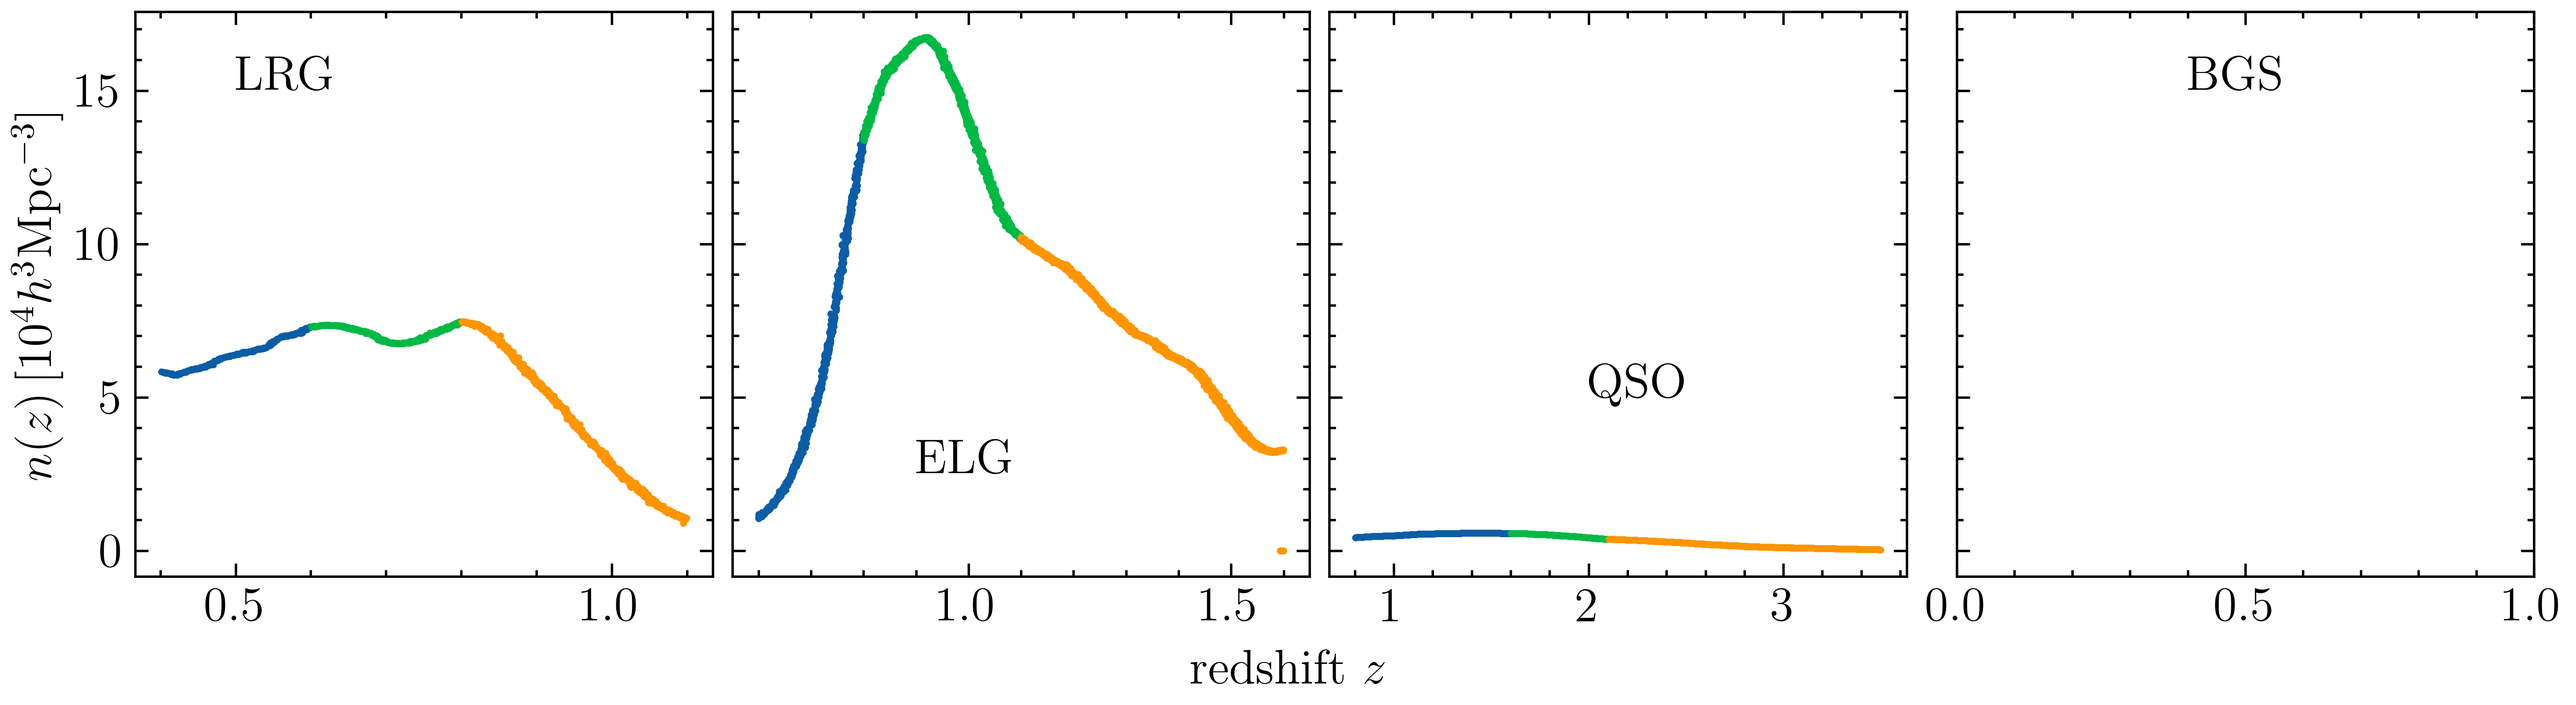
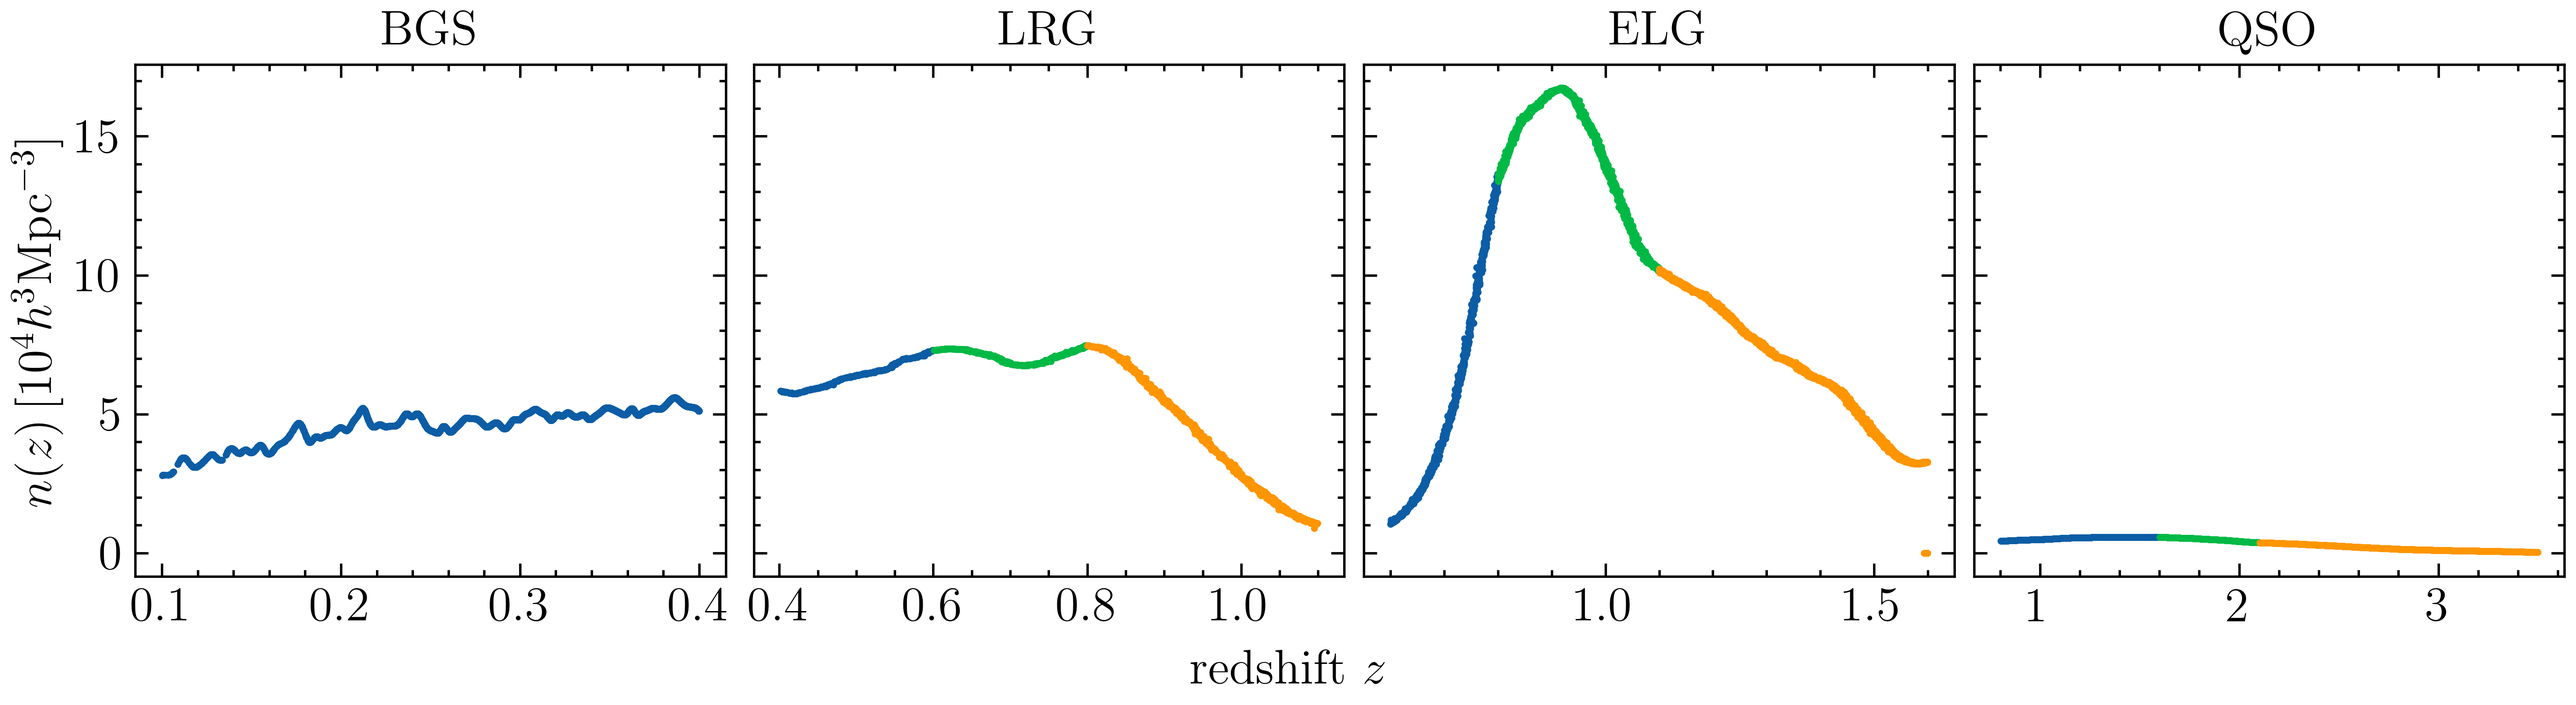
add BGS number density

diff --git a/paper/desi_tracers_nz.py b/paper/desi_tracers_nz.py
@@ -1,6 +1,9 @@
 import numpy as np
 from pathlib import Path
 import fitsio
+import healpy as hp
+from scipy.interpolate import InterpolatedUnivariateSpline
+from cosmoprimo.fiducial import DESI
 import matplotlib.pyplot as plt
 plt.style.use(['enrique-science'])
 
@@ -12,19 +15,57 @@ def read_catalog(filename, zmin=0.8, zmax=3.5, cap='NGC'):
     Y5_mask = data['STATUS'] & 2**1 != 0
     redshift_mask = (data['Z'] > zmin) & (data['Z'] < zmax)
     if cap == 'NGC':
-        cap_mask = (data['RA'] > 80) & (data['RA'] < 300)
+        region_mask = (data['RA'] > 80) & (data['RA'] < 300)
     else:
-        cap_mask = (data['RA'] < 80) | (data['RA'] > 300)
-    mask = Y5_mask & cap_mask & redshift_mask
+        region_mask = (data['RA'] < 80) | (data['RA'] > 300)
+    if 'BGS' in filename:
+        m_r = data['R_MAG_APP']
+        M_r = data['R_MAG_ABS'] - E_correction(data['Z'])
+        magnitude_mask = (M_r < -21.5) & (m_r < 19.5)
+        mask = Y5_mask & region_mask & redshift_mask & magnitude_mask
+    else:
+        mask = Y5_mask & region_mask & redshift_mask
     ra = data['RA'][mask]
     dec = data['DEC'][mask]
     z = data['Z'][mask]
-    nz = data['NZ'][mask]
+    if 'NZ' in data.dtype.names:
+        nz = data['NZ'][mask]
+    else:
+        cosmo = DESI()
+        nz = get_nofz(ra, dec, z, cosmo, zmin, zmax)
     return ra, dec, z, nz
 
+def E_correction(z, Q0=-0.97, z0=0.1):
+    return Q0 * (z - z0)
 
-samples = ['LRG', 'ELG', 'QSO']
+def get_nofz(ra, dec, z, cosmo, zmin, zmax):
+    nside = 256
+    npix = hp.nside2npix(nside)
+    phi = np.radians(ra)
+    theta = np.radians(90.0 - dec)
+    pixel_indices = hp.ang2pix(nside, theta, phi)
+    pixel_unique = np.unique(pixel_indices)
+    fsky = len(pixel_unique)/npix
+    spl_nz = spl_nofz(z, fsky, cosmo, zmin, zmax)
+    nz = spl_nz(z)
+    return nz
+
+def spl_nofz(zarray, fsky, cosmo, zmin, zmax, Nzbins=100):
+    zbins = np.linspace(zmin, zmax, Nzbins+1)
+    Nz, zbins = np.histogram(zarray, zbins)
+    zmid = zbins[0:-1] + (zmax-zmin)/Nzbins/2.0
+    zmid[0], zmid[-1] = zbins[0], zbins[-1]
+    rmin = cosmo.comoving_radial_distance(zbins[0:-1])
+    rmax = cosmo.comoving_radial_distance(zbins[1:])
+    vol = fsky * 4./3*np.pi * (rmax**3.0 - rmin**3.0)
+    nz_array = Nz/vol
+    spl_nz = InterpolatedUnivariateSpline(zmid, nz_array)
+    return spl_nz
+
+
+samples = ['BGS', 'LRG', 'ELG', 'QSO']
 zrange_samples = [
+    [[0.1, 0.4]],
     [[0.4, 0.6], [0.6, 0.8], [0.8, 1.1]],
     [[0.6, 0.8], [0.8, 1.1], [1.1, 1.6]],
     [[0.8, 1.6], [1.6, 2.1], [2.1, 3.5]],
@@ -32,6 +73,7 @@ zrange_samples = [
 ]
[1 lines of base64/hex data omitted]
 fname_samples = [
+    root_dir + 'BGS_v2/z0.200/cutsky_BGS_z0.200_AbacusSummit_base_c000_ph000.fits',
     root_dir + 'LRG/z0.800/cutsky_LRG_z0.800_AbacusSummit_base_c000_ph000.fits',
     root_dir + 'ELG/z1.100/cutsky_ELG_z1.100_AbacusSummit_base_c000_ph000.fits',
     root_dir + 'QSO/z1.400/cutsky_QSO_z1.400_AbacusSummit_base_c000_ph000.fits',
@@ -44,15 +86,18 @@ for i, sample in enumerate(samples):
     for zrange in zrange_samples[i]:
         zmin, zmax = zrange
         ra, dec, z, nz = read_catalog(fname_samples[i], zmin=zmin, zmax=zmax, cap='NGC')
-        nsub = 10_000
+        if 'BGS' in fname_samples[i]:
+            nsub = 100
+        else:
+            nsub = 10_000
         ax[i].scatter(z[::nsub], 1e4 * nz[::nsub], s=5.0, marker='.')
 for aa in ax:
     aa.tick_params(axis='x', labelsize=15)
     aa.tick_params(axis='y', labelsize=15)
 ax[0].set_ylabel(r'$n(z)\, [10^4 h^{3}{\rm Mpc^{-3}}]$', fontsize=15)
-ax[0].annotate(text='LRG', xy=(0.5, 15), fontsize=15) 
-ax[1].annotate(text='ELG', xy=(0.9, 2.5), fontsize=15)
-ax[2].annotate(text='QSO', xy=(2.0, 5), fontsize=15)
-ax[3].annotate(text='BGS', xy=(0.4, 15), fontsize=15)
+ax[0].set_title('BGS', fontsize=15)
+ax[1].set_title('LRG', fontsize=15) 
+ax[2].set_title('ELG', fontsize=15)
+ax[3].set_title('QSO', fontsize=15)
 fig.supxlabel('redshift ''$z$', fontsize=15)
 plt.savefig('fig/png/desi_tracers_nz.png', dpi=500)
